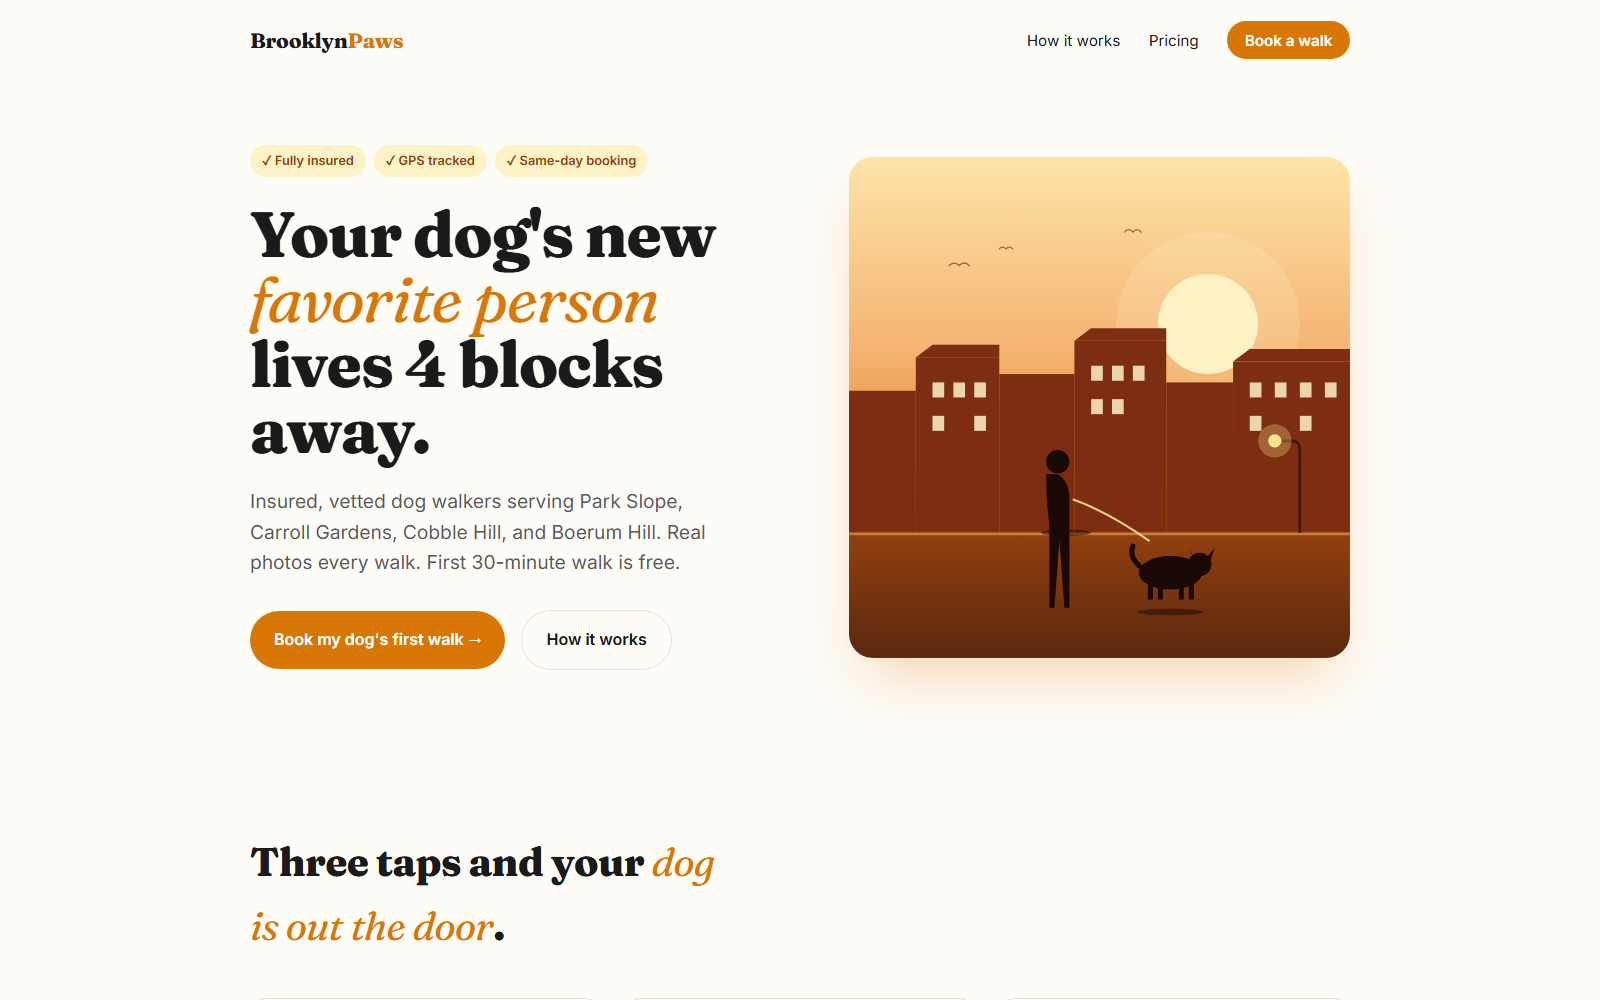
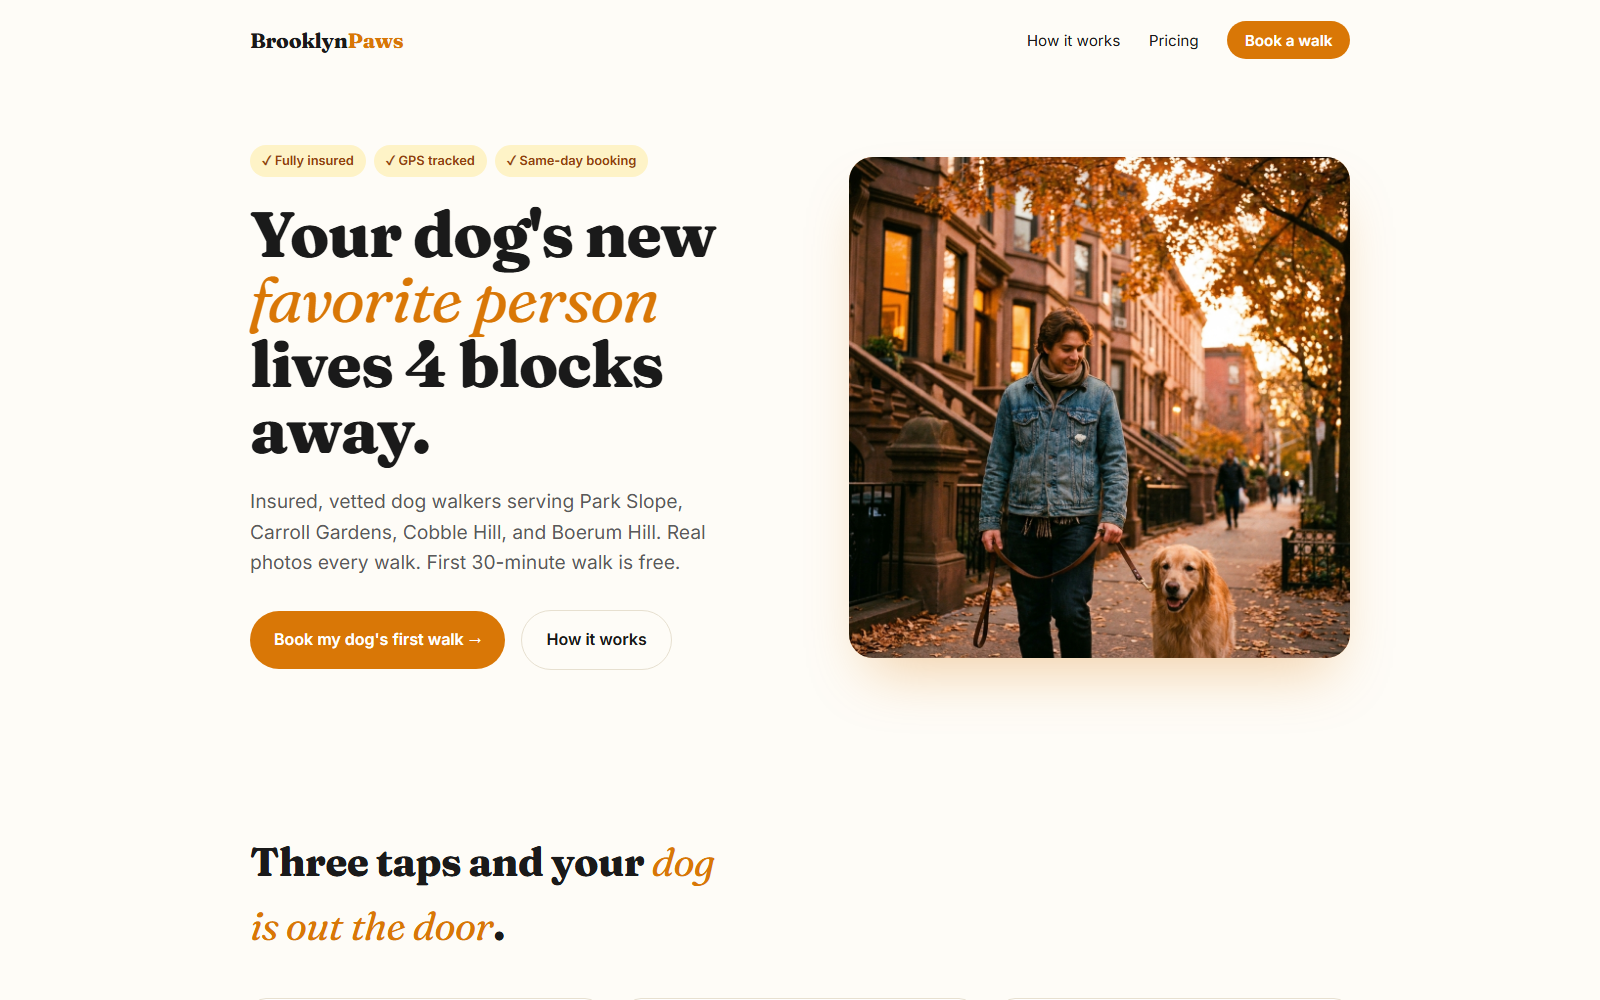
feat: real Higgsfield-generated hero images for sample pages
Replaced amateur inline SVG hero illustrations in both sample pages with
magazine-grade photorealistic photographs generated via Higgsfield's
nano_banana_2 (4 credits total).

Dogwalker: 1024×1024 of a person in a denim jacket walking a happy golden
retriever down a Brooklyn brownstone street at golden hour. Autumn leaves,
lit windows, soft afternoon light, real depth.

Pilates: 928×1152 of a sunlit converted 1880s carriage-house studio in
Hudson NY — wide-plank oak floors, tall arched window pouring light onto
a single wooden pilates reformer, olive plant in the corner, exposed
beams. Editorial wellness aesthetic.

CSS updates: hero-art containers now have object-fit:cover, a fallback
background color, and a colored drop shadow tuned to each brand
(amber for dogwalker, sage for pilates).

Portfolio thumbnails (index.html gallery) auto-upgrade too since they're
screenshots of these sample pages. Re-captured via `npm run thumbs`.

All 31 E2E assertions still pass.

Changed region(s): [[0.5312, 0.155, 0.8438, 0.682]]

diff --git a/samples/pilates/index.html b/samples/pilates/index.html
@@ -44,8 +44,12 @@
   .btn.primary:hover { background: #3a4a3a; }
   .btn.ghost { color: var(--accent); border: 1px solid var(--accent); background: transparent; }
 
-  .hero-art { aspect-ratio: 4/5; overflow: hidden; position: relative; }
-  .hero-art svg { width: 100%; height: 100%; display: block; }
+  .hero-art {
+    aspect-ratio: 4/5; overflow: hidden; position: relative;
+    background: var(--cream);
+    box-shadow: 0 30px 60px -25px rgba(74, 93, 74, 0.4);
+  }
+  .hero-art img, .hero-art svg { width: 100%; height: 100%; display: block; object-fit: cover; }
 
   .marquee { background: var(--cream); padding: 1.25rem 0; overflow: hidden; white-space: nowrap; margin: 0 -1.5rem 5rem; }
   .marquee-track { display: inline-block; animation: scroll 35s linear infinite; }
@@ -140,107 +144,7 @@
     </div>
 
     <div class="hero-art">
-      <!-- Stylized illustration: a reformer in a sunlit carriage-house window -->
-      <svg xmlns="http://www.w3.org/2000/svg" viewBox="0 0 400 500" preserveAspectRatio="xMidYMid slice">
-        <defs>
-          <linearGradient id="wall" x1="0" y1="0" x2="0" y2="1">
-            <stop offset="0" stop-color="#f5f1e8"/>
-            <stop offset="1" stop-color="#e8e3d3"/>
-          </linearGradient>
-          <linearGradient id="light" x1="0" y1="0" x2="0" y2="1">
-            <stop offset="0" stop-color="#fef3c7" stop-opacity="0.8"/>
-            <stop offset="1" stop-color="#fef3c7" stop-opacity="0"/>
-          </linearGradient>
-          <linearGradient id="floor" x1="0" y1="0" x2="0" y2="1">
-            <stop offset="0" stop-color="#c9b896"/>
-            <stop offset="1" stop-color="#a89673"/>
-          </linearGradient>
-          <linearGradient id="window" x1="0" y1="0" x2="0" y2="1">
-            <stop offset="0" stop-color="#d4dbcc"/>
-            <stop offset="0.5" stop-color="#a8b598"/>
-            <stop offset="1" stop-color="#4a5d4a"/>
-          </linearGradient>
-        </defs>
-
-        <!-- Wall -->
-        <rect width="400" height="500" fill="url(#wall)"/>
-
-        <!-- Large arched window -->
-        <path d="M80 80 L80 280 L320 280 L320 80 Q200 0 80 80 Z" fill="url(#window)"/>
-        <!-- Window panes -->
-        <g stroke="#4a5d4a" stroke-width="2" fill="none" opacity="0.5">
-          <line x1="80" y1="180" x2="320" y2="180"/>
-          <line x1="200" y1="60" x2="200" y2="280"/>
-        </g>
-
-        <!-- Sunlight pooling on floor -->
-        <path d="M80 280 L320 280 L380 380 L20 380 Z" fill="url(#light)" opacity="0.6"/>
-
-        <!-- Tree branch silhouette outside window -->
-        <g fill="#4a5d4a" opacity="0.35">
-          <path d="M100 100 Q140 105 180 100 Q160 110 130 115 Q105 112 100 100 Z"/>
-          <circle cx="160" cy="80" r="6"/>
-          <circle cx="170" cy="88" r="5"/>
-          <circle cx="150" cy="88" r="4"/>
-        </g>
-
-        <!-- Floor -->
-        <rect y="380" width="400" height="120" fill="url(#floor)"/>
-        <!-- Floor planks -->
-        <g stroke="#8a7861" stroke-width="0.5" opacity="0.4">
-          <line x1="0" y1="410" x2="400" y2="410"/>
-          <line x1="0" y1="430" x2="400" y2="430"/>
-          <line x1="0" y1="450" x2="400" y2="450"/>
-          <line x1="0" y1="470" x2="400" y2="470"/>
-        </g>
-
-        <!-- Pilates reformer (centerpiece) -->
-        <g>
-          <!-- Frame -->
-          <rect x="80" y="375" width="240" height="18" rx="2" fill="#4a5d4a"/>
-          <!-- Mat/carriage -->
-          <rect x="125" y="365" width="115" height="14" rx="3" fill="#1a1a1a"/>
-          <!-- Springs (sketched) -->
-          <g stroke="#b8956a" stroke-width="2" fill="none">
-            <path d="M115 372 Q108 372 105 374 Q108 376 115 376"/>
-            <path d="M115 380 Q108 380 105 382 Q108 384 115 384"/>
-            <path d="M250 372 Q257 372 260 374 Q257 376 250 376"/>
-            <path d="M250 380 Q257 380 260 382 Q257 384 250 384"/>
-          </g>
-          <!-- Foot bar -->
-          <rect x="80" y="358" width="6" height="22" fill="#4a5d4a"/>
-          <rect x="78" y="356" width="10" height="4" rx="2" fill="#b8956a"/>
-          <!-- Shoulder rests -->
-          <circle cx="290" cy="370" r="5" fill="#1a1a1a"/>
-          <circle cx="290" cy="380" r="5" fill="#1a1a1a"/>
-          <!-- Foot pads -->
-          <rect x="318" y="365" width="14" height="20" rx="3" fill="#4a5d4a"/>
-          <!-- Legs -->
-          <line x1="90" y1="393" x2="90" y2="410" stroke="#4a5d4a" stroke-width="4" stroke-linecap="round"/>
-          <line x1="310" y1="393" x2="310" y2="410" stroke="#4a5d4a" stroke-width="4" stroke-linecap="round"/>
-          <line x1="180" y1="393" x2="180" y2="410" stroke="#4a5d4a" stroke-width="3" stroke-linecap="round"/>
-          <line x1="240" y1="393" x2="240" y2="410" stroke="#4a5d4a" stroke-width="3" stroke-linecap="round"/>
-        </g>
-
-        <!-- Plant in corner -->
-        <g>
-          <rect x="350" y="430" width="38" height="40" rx="2" fill="#b8956a"/>
-          <g fill="#4a5d4a">
-            <ellipse cx="358" cy="420" rx="6" ry="14" transform="rotate(-20 358 420)"/>
-            <ellipse cx="380" cy="415" rx="6" ry="16" transform="rotate(15 380 415)"/>
-            <ellipse cx="369" cy="408" rx="5" ry="18"/>
-            <ellipse cx="372" cy="412" rx="7" ry="12" transform="rotate(35 372 412)"/>
-          </g>
-        </g>
-
-        <!-- Subtle floating dust in sunbeam -->
-        <g fill="#fef3c7" opacity="0.7">
-          <circle cx="180" cy="320" r="1.5"/>
-          <circle cx="220" cy="300" r="1"/>
-          <circle cx="160" cy="340" r="1"/>
-          <circle cx="240" cy="335" r="1.2"/>
-        </g>
-      </svg>
+      <img src="img/hero.png" alt="Sunlit interior of a converted 1880s carriage house pilates studio in Hudson NY — a wooden reformer in the foreground, tall arched window, polished oak floors, an olive plant in the corner" width="928" height="1152" fetchpriority="high" decoding="async" />
     </div>
   </section>
 

diff --git a/samples/dogwalker/index.html b/samples/dogwalker/index.html
@@ -51,8 +51,9 @@
   .hero-art {
     aspect-ratio: 1/1; border-radius: 24px; overflow: hidden;
     box-shadow: 0 30px 60px -20px rgba(217, 119, 6, 0.35);
+    background: #f5b574;
   }
-  .hero-art svg { width: 100%; height: 100%; display: block; }
+  .hero-art img, .hero-art svg { width: 100%; height: 100%; display: block; object-fit: cover; }
 
   .badge-row { display: flex; gap: 0.5rem; flex-wrap: wrap; margin-bottom: 1.5rem; }
   .badge { background: #fef3c7; color: var(--accent-dark); padding: 0.35rem 0.75rem; border-radius: 999px; font-size: 0.8rem; font-weight: 600; }
@@ -129,104 +130,7 @@
     </div>
 
     <div class="hero-art">
-      <!-- Brooklyn brownstone-and-dog sunset illustration -->
-      <svg xmlns="http://www.w3.org/2000/svg" viewBox="0 0 600 600" preserveAspectRatio="xMidYMid slice">
-        <defs>
-          <linearGradient id="sky" x1="0" y1="0" x2="0" y2="1">
-            <stop offset="0" stop-color="#fde4a8"/>
-            <stop offset="0.5" stop-color="#f5b574"/>
-            <stop offset="1" stop-color="#d97706"/>
-          </linearGradient>
-          <linearGradient id="ground" x1="0" y1="0" x2="0" y2="1">
-            <stop offset="0" stop-color="#92400e"/>
-            <stop offset="1" stop-color="#5a2810"/>
-          </linearGradient>
-        </defs>
-
-        <!-- Sky -->
-        <rect width="600" height="450" fill="url(#sky)"/>
-        <!-- Sun -->
-        <circle cx="430" cy="200" r="60" fill="#fef3c7" opacity="0.95"/>
-        <circle cx="430" cy="200" r="110" fill="#fef3c7" opacity="0.2"/>
-
-        <!-- Brownstones silhouette -->
-        <g fill="#7c2d12">
-          <rect x="0" y="280" width="80" height="170"/>
-          <rect x="80" y="240" width="100" height="210"/>
-          <rect x="180" y="260" width="90" height="190"/>
-          <rect x="270" y="220" width="110" height="230"/>
-          <rect x="380" y="270" width="80" height="180"/>
-          <rect x="460" y="245" width="140" height="205"/>
-          <!-- Roof details -->
-          <polygon points="80,240 100,225 180,225 180,240"/>
-          <polygon points="270,220 290,205 380,205 380,220"/>
-          <polygon points="460,245 480,230 600,230 600,245"/>
-        </g>
-
-        <!-- Brownstone windows lit up -->
-        <g fill="#fef3c7" opacity="0.85">
-          <rect x="100" y="270" width="14" height="18"/>
-          <rect x="125" y="270" width="14" height="18"/>
-          <rect x="150" y="270" width="14" height="18"/>
-          <rect x="100" y="310" width="14" height="18"/>
-          <rect x="150" y="310" width="14" height="18"/>
-          <rect x="290" y="250" width="14" height="18"/>
-          <rect x="315" y="250" width="14" height="18"/>
-          <rect x="340" y="250" width="14" height="18"/>
-          <rect x="290" y="290" width="14" height="18"/>
-          <rect x="315" y="290" width="14" height="18"/>
-          <rect x="480" y="270" width="14" height="18"/>
-          <rect x="510" y="270" width="14" height="18"/>
-          <rect x="540" y="270" width="14" height="18"/>
-          <rect x="570" y="270" width="14" height="18"/>
-          <rect x="480" y="310" width="14" height="18"/>
-          <rect x="540" y="310" width="14" height="18"/>
-        </g>
-
-        <!-- Street/sidewalk -->
-        <rect y="450" width="600" height="150" fill="url(#ground)"/>
-        <!-- Sidewalk line -->
-        <rect y="450" width="600" height="3" fill="#fdba74" opacity="0.5"/>
-
-        <!-- Streetlamp -->
-        <g stroke="#3d1707" stroke-width="3" fill="none">
-          <line x1="540" y1="450" x2="540" y2="350"/>
-          <path d="M540 350 Q540 340 530 340 L515 340"/>
-        </g>
-        <circle cx="510" cy="340" r="8" fill="#fde68a"/>
-        <circle cx="510" cy="340" r="20" fill="#fde68a" opacity="0.3"/>
-
-        <!-- Person walking dog (silhouettes) -->
-        <g fill="#1a0905">
-          <!-- Walker -->
-          <ellipse cx="260" cy="450" rx="30" ry="4" opacity="0.5"/>
-          <circle cx="250" cy="365" r="14"/>
-          <path d="M236 380 Q236 410 240 440 L240 540 L246 540 L252 460 L258 540 L264 540 L264 410 Q264 388 250 380 Z"/>
-          <!-- Leash -->
-          <path d="M268 410 Q310 425 360 460" stroke="#fde68a" stroke-width="2.5" fill="none" opacity="0.9"/>
-
-          <!-- Dog -->
-          <ellipse cx="385" cy="545" rx="40" ry="4" opacity="0.5"/>
-          <ellipse cx="385" cy="498" rx="38" ry="20"/>
-          <circle cx="420" cy="488" r="14"/>
-          <polygon points="430,478 438,468 432,486"/>
-          <polygon points="412,478 408,468 414,486"/>
-          <!-- Dog tail -->
-          <path d="M348 490 Q335 478 340 466" stroke="#1a0905" stroke-width="6" fill="none" stroke-linecap="round"/>
-          <!-- Dog legs -->
-          <rect x="358" y="510" width="6" height="20"/>
-          <rect x="370" y="510" width="6" height="20"/>
-          <rect x="395" y="510" width="6" height="20"/>
-          <rect x="407" y="510" width="6" height="20"/>
-        </g>
-
-        <!-- Tiny birds -->
-        <g fill="none" stroke="#7c2d12" stroke-width="1.5" stroke-linecap="round" opacity="0.7">
-          <path d="M120 130 Q126 124 132 130 Q138 124 144 130"/>
-          <path d="M180 110 Q184 106 188 110 Q192 106 196 110"/>
-          <path d="M330 90 Q335 84 340 90 Q345 84 350 90"/>
-        </g>
-      </svg>
+      <img src="img/hero.png" alt="A person in a denim jacket walking a happy golden retriever down a Brooklyn brownstone street in Park Slope at sunset" width="1024" height="1024" fetchpriority="high" decoding="async" />
     </div>
   </section>
 